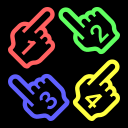
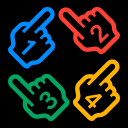
Adjusted the cursor colors to match the Wii U Menu. (thanks to dewgong)

Changed region(s): [[0.0625, 0.0312, 0.9375, 0.5625], [0.0625, 0.4375, 0.9375, 0.9688], [0.6562, 0.7188, 0.8125, 0.8438]]

diff --git a/examples/wiiu/sdl2-wiimotes/src/main.cpp b/examples/wiiu/sdl2-wiimotes/src/main.cpp
@@ -1,13 +1,13 @@
 #include <array>
 #include <atomic>
 #include <cassert>
-#include <iostream>
-#include <string>
-#include <stdexcept>
-#include <vector>
-#include <thread>
 #include <cmath>
+#include <iostream>
 #include <numbers>
+#include <stdexcept>
+#include <string>
+#include <thread>
+#include <vector>
 
 #include <sys/iosupport.h>      // devoptab_list, devoptab_t
 
@@ -175,7 +175,6 @@ struct Cursor {
         trail.emplace_back(x, y);
     }
 
-
 };
 
 
@@ -258,11 +257,12 @@ struct App {
             U'\ue05b',
             U'\ue05c',
         };
+        // Cursor colors based off on Wii U Menu.
         const SDL_Color colors[4] = {
-            { 0x00, 0x80, 0xff, 0xff }, // player 1 is light blue
-            { 0xff, 0x40, 0x40, 0xff }, // player 2 is light red
-            { 0x30, 0xff, 0x20, 0xff }, // player 3 is light green
-            { 0xff, 0xc0, 0x00, 0xff }, // player 4 is gold
+            { 0x00, 0x8c, 0xff, 0xff },
+            { 0xff, 0x41, 0x33, 0xff },
+            { 0x00, 0xa6, 0x5f, 0xff },
+            { 0xff, 0xb3, 0x00, 0xff },
         };
 
         for (unsigned i = 0; i < 4; ++i) {
@@ -322,7 +322,7 @@ struct App {
                 continue;
 
             /*
-             * We use the "tip" offset to indicate where is the "center" of the cursor.
+             * We use the "tip" offset to indicate the "center" of the cursor.
              * The rotation is also applied around this "center".
              */
             SDL_FPoint tip{
